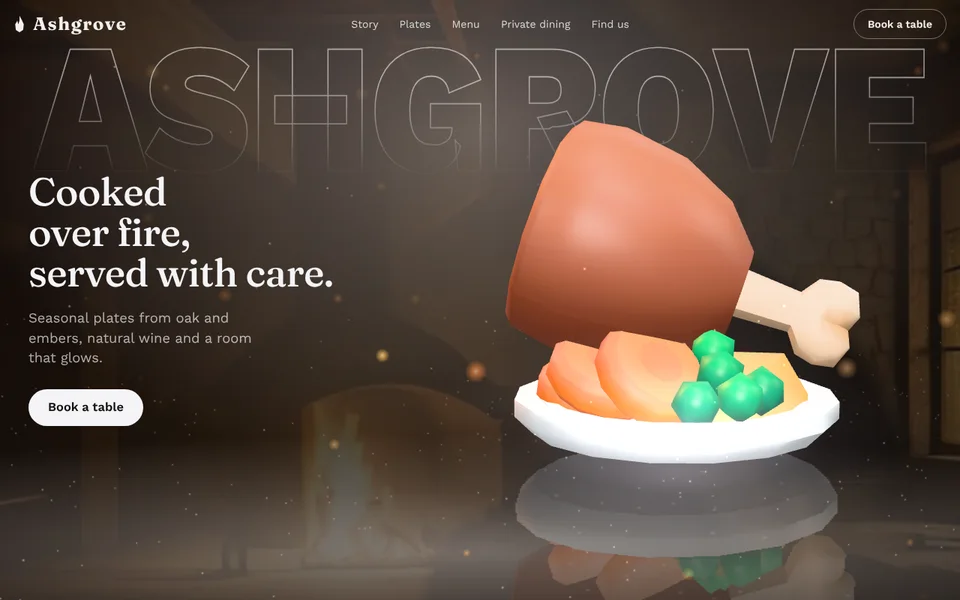
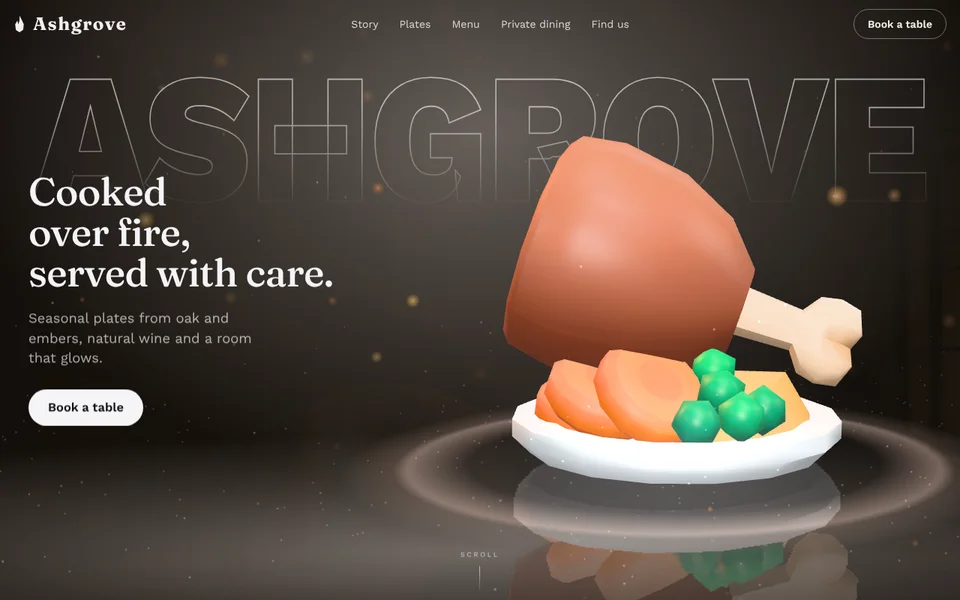
Openings play by themselves on load, and phones stand a tall figure above its words (#53)
The story's clock runs from below zero up to zero when the page opens, so every template's figure arrives in its own way (lift, drop, spin, zoom, reveal) instead of starting small or dim until the first scroll. Posters now show the arrived first screen. A tall figure on a phone stands above its words. On a wide screen the figure starts clear of the words.

Claude-Session: https://claude.ai/code/session_013S7wa2YwBzhjTGdkLAGHM9

diff --git a/library/character/plan.ts b/library/character/plan.ts
@@ -37,6 +37,8 @@ export const LOGICS = ["turntable", "orbit", "drift", "flip", "rise", "descend",
 export const LOOKS = ["studio", "embers", "snow", "bubbles", "petals", "fireflies", "confetti", "sparks", "stars", "leaves", "none"] as const;
 /** How the figure arrives in the opening scene. */
 export const OPENINGS = ["lift", "drop", "spin", "zoom", "reveal"] as const;
+/** How long each opening plays by itself when the page opens, in the story's own units (about 50 ms each; scenes.ts). */
+export const INTRO: Record<(typeof OPENINGS)[number], number> = { lift: 12, drop: 34, spin: 34, zoom: 30, reveal: 30 };
 /** How words and cards arrive. */
 export const MOTIONS = ["rise", "slide", "pop", "zoom", "drift"] as const;
 
@@ -313,6 +315,8 @@ export function buildPlan(plan_: FilmPlan, v: Variant, opening: boolean): Script
   const els: ElSpec[] = [];
   const scenes: SceneInfo[] = [];
   const plates: PlateSpec[] = [];
+  /** How long the opening plays by itself before the first scroll position (the hero sets it). */
+  let intro = 0;
   let prev: TrackKey = { ...BASE };
   const k = (t: number, slot: Slot | null, p: Partial<TrackKey> = {}) => {
     const next: TrackKey = { ...prev, t, ...(slot ? { cx: slot[0], cy: slot[1], w: slot[2], h: slot[3] } : {}), ...p };
@@ -338,7 +342,7 @@ export function buildPlan(plan_: FilmPlan, v: Variant, opening: boolean): Script
     });
   /** Where the figure begins the page and where it ends it: low and big beside the words, or above them. */
   const homeSlot = (center: boolean): Slot => {
-    if (!center) return N ? (F ? [0.5, 0.745, 0.96, 0.6] : [0.5, 0.7, 0.84, 0.46]) : F ? [0.526, 0.68, 0.74, 0.6] : [0.67, 0.55, 0.38, 0.76];
+    if (!center) return N ? (F ? [0.5, 0.745, 0.96, 0.6] : [0.5, 0.7, 0.84, 0.46]) : F ? [0.566, 0.68, 0.74, 0.6] : [0.71, 0.55, 0.38, 0.76];
     const base: Slot = N ? (F ? [0.5, 0.36, 0.92, 0.3] : [0.5, 0.38, 0.5, 0.36]) : F ? [0.5, 0.42, 0.64, 0.46] : [0.5, 0.42, 0.3, 0.54];
     // Its feet stay above the words that stand under it (they are measured: v.stack is their height).
     const over = base[1] + base[3] / 2 - (STACK_Y - (v.stack ?? 0.27) - 0.03);
@@ -412,48 +416,56 @@ export function buildPlan(plan_: FilmPlan, v: Variant, opening: boolean): Script
     switch (s.type) {
       // ------------------------------------------------ the opening
       case "hero": {
-        const center = s.comp === "center";
+        // A tall figure on a phone stands above its words (there is no room beside it): the same stack as a centred hero.
+        const center = s.comp === "center" || (N && !F);
         const l = look(plan_.logic, i, list.length, "side", F);
         const up = (x: number) => (F ? x : x * 0.35);
         // The figure low and big, then lifted into the light while the camera eases back.
         const hero: Slot = homeSlot(center);
         const yaw0 = F ? 0 : -22;
-        const settle = (dy: number, dw: number): Slot => [hero[0] + (center || N ? 0 : 0.04), hero[1] - dy, hero[2] - dw, hero[3]];
+        const settle = (dy: number, dw: number): Slot => [hero[0], hero[1] - dy, hero[2] - dw, hero[3]];
+        // The opening plays by itself when the page opens: the story's clock runs from -I to 0 (mountScenes),
+        // so the figure has arrived and every word is in place when a visitor first sees the page. Scrolling
+        // then lifts it into the light.
+        const I = (INTRO as Record<string, number>)[plan_.opening] ?? INTRO.lift;
+        intro = I;
         switch (plan_.opening) {
           case "drop":
             // Hangs in the air above the floor, then falls and lands: a ripple spreads from the impact.
-            k(a, [hero[0], hero[1] - (F ? 0.3 : 0.13), hero[2] * 0.92, hero[3] * 0.92], { yaw: yaw0 + 24, elev: 15, floor: 0.4, dust: 0.3, word: 1, glow: 0, pulse: 1, ring: 0, lift: F ? 0.6 : 0.3 });
-            k(a + 20, hero, { yaw: yaw0, elev: 7, floor: 1, dust: 0.5, lift: 0 });
-            k(a + 21, null, { pulse: 0 });
-            k(a + 34, settle(0.02, 0), { pulse: 0.45, glow: 0.4, dust: 0.7, lift: up(0.05) });
-            k(a + 50, settle(0.05, 0.005), { pulse: 1, glow: 1, dust: 0.9, word: 0.92, lift: up(0.16) });
+            k(-I, [hero[0], hero[1] - (F ? 0.3 : 0.13), hero[2] * 0.92, hero[3] * 0.92], { yaw: yaw0 + 24, elev: 15, floor: 0.4, dust: 0.3, word: 1, glow: 0, pulse: 1, ring: 0, lift: F ? 0.6 : 0.3 });
+            k(-14, hero, { yaw: yaw0, elev: 7, floor: 1, dust: 0.5, lift: 0 });
+            k(-13, null, { pulse: 0 });
+            k(0, settle(0.02, 0), { pulse: 0.45, glow: 0.4, dust: 0.7, lift: up(0.05) });
+            k(50, settle(0.05, 0.005), { pulse: 1, glow: 1, dust: 0.9, word: 0.92, lift: up(0.16) });
             break;
           case "spin":
             // Whirls into place from a full turn away, and settles as it lifts.
-            k(a, hero, { yaw: yaw0 - 330, elev: 9, floor: 1, dust: 0.5, word: 1, glow: 0, pulse: 1, ring: 0, lift: 0 });
-            k(a + 18, null, { yaw: yaw0 - 200 });
-            k(a + 34, settle(0.03, 0), { yaw: yaw0 - 70, glow: 0.6, dust: 0.7, lift: up(0.12) });
-            k(a + 50, settle(0.06, 0.01), { yaw: yaw0, elev: 7, glow: 1, dust: 0.9, word: 0.92, lift: up(0.24) });
+            k(-I, hero, { yaw: yaw0 - 330, elev: 9, floor: 1, dust: 0.5, word: 1, glow: 0, pulse: 1, ring: 0, lift: 0 });
+            k(-I * 0.5, null, { yaw: yaw0 - 170 });
+            k(0, settle(0.03, 0), { yaw: yaw0, elev: 7, glow: 0.6, dust: 0.7, lift: up(0.12) });
+            k(50, settle(0.06, 0.01), { glow: 1, dust: 0.9, word: 0.92, lift: up(0.24) });
             break;
           case "zoom":
             // Rushes in from far away, down out of a high view.
-            k(a, [hero[0], hero[1] - 0.05, hero[2] * 0.24, hero[3] * 0.24], { yaw: yaw0 + 50, elev: 22, floor: 0.6, dust: 1, word: 1, glow: 0.3, pulse: 1, ring: 0, lift: up(0.1) });
-            k(a + 26, hero, { yaw: yaw0 + 12, elev: 9, floor: 1, dust: 0.7, glow: 0.5 });
-            k(a + 50, settle(0.05, 0.005), { yaw: yaw0, elev: 7, glow: 1, dust: 0.9, word: 0.92, lift: up(0.2) });
+            k(-I, [hero[0], hero[1] - 0.05, hero[2] * 0.24, hero[3] * 0.24], { yaw: yaw0 + 50, elev: 22, floor: 0.6, dust: 1, word: 1, glow: 0.3, pulse: 1, ring: 0, lift: up(0.1) });
+            k(0, hero, { yaw: yaw0 + 6, elev: 9, floor: 1, dust: 0.7, glow: 0.5 });
+            k(50, settle(0.05, 0.005), { yaw: yaw0, elev: 7, glow: 1, dust: 0.9, word: 0.92, lift: up(0.2) });
             break;
           case "reveal":
             // Comes out of the dark: the light grows round it first.
-            k(a, hero, { yaw: yaw0, elev: 7, presence: 0.5, floor: 0.35, dust: 1, word: 0.2, glow: 0, pulse: 1, ring: 0, lift: up(0.1) });
-            k(a + 26, settle(0.02, 0), { presence: 1, floor: 0.75, glow: 0.4, word: 0.6 });
-            k(a + 50, settle(0.05, 0.005), { floor: 1, glow: 1, dust: 0.9, word: 0.92, lift: up(0.2) });
+            k(-I, hero, { yaw: yaw0, elev: 7, presence: 0.15, floor: 0.2, dust: 1, word: 0.2, glow: 0, pulse: 1, ring: 0, lift: up(0.1) });
+            k(0, settle(0.02, 0), { presence: 1, floor: 0.75, glow: 0.4, word: 0.6 });
+            k(50, settle(0.05, 0.005), { floor: 1, glow: 1, dust: 0.9, word: 0.92, lift: up(0.2) });
             break;
           default:
-            // Lifts off: a ring spreads from under it, light pools gather beneath, the dust wakes up.
-            k(a, hero, { yaw: yaw0, elev: 7, floor: 1, dust: 0.45, word: 1, glow: 0, pulse: 1, ring: 0 });
-            k(a + 14, null, { pulse: 0 });
-            k(a + 26, settle(0.04, 0), { pulse: 0.3, glow: 0.35, dust: 0.6, lift: up(0.12) });
-            k(a + 38, settle(0.05, 0.005), { pulse: 0.65, glow: 0.6, dust: 0.75, lift: up(0.22) });
-            k(a + 50, settle(0.065, 0.01), { pulse: 1, glow: 1, dust: 0.9, word: 0.92, lift: up(0.3) });
+            // Lifts off: it takes its place on the floor, then a ring spreads from under it, light pools gather
+            // beneath, the dust wakes up.
+            k(-I, hero, { yaw: yaw0, elev: 7, presence: 0.2, floor: 0.5, dust: 0.2, word: 0.5, glow: 0, pulse: 1, ring: 0 });
+            k(0, hero, { presence: 1, floor: 1, dust: 0.45, word: 1 });
+            k(14, null, { pulse: 0 });
+            k(26, settle(0.04, 0), { pulse: 0.3, glow: 0.35, dust: 0.6, lift: up(0.12) });
+            k(38, settle(0.05, 0.005), { pulse: 0.65, glow: 0.6, dust: 0.75, lift: up(0.22) });
+            k(50, settle(0.065, 0.01), { pulse: 1, glow: 1, dust: 0.9, word: 0.92, lift: up(0.3) });
         }
         // Once the words have gone, a centred figure grows to the middle of the screen (the next scene begins from there).
         const far: Slot = center ? (N ? [hero[0], hero[1] - 0.075, hero[2] * 0.97, hero[3]] : F ? [0.5, 0.5, 0.7, 0.54] : [0.5, 0.5, 0.34, 0.66]) : N ? (F ? [0.5, 0.5, 0.94, 0.6] : [0.5, 0.52, 0.8, 0.36]) : F ? [0.607, 0.505, 0.645, 0.6] : [0.7, 0.52, 0.36, 0.72];
@@ -461,15 +473,15 @@ export function buildPlan(plan_: FilmPlan, v: Variant, opening: boolean): Script
         k(a + 125, null, { word: 0 });
         k(a + 150, far, { elev: 11, yaw: l.yaw * 0.3, word: 0 });
         if (center) {
-          stack(`${s.id}-stack`, s, [NOW, NOW, a + 6, a + 43]);
+          stack(`${s.id}-stack`, s, [-I * 0.6, -I * 0.1, a + 6, a + 43]);
         } else {
           const x = N ? 0.07 : 0.03;
           const ty = N ? 0.3 : 0.285;
-          el({ id: `${s.id}-title`, kind: "title", html: lines(s.title), x, y: ty, fade: [NOW, NOW, a + 6, a + 43] });
-          if (s.text) el({ id: `${s.id}-text`, kind: "text", html: esc(s.text), x, y: 0, after: `${s.id}-title`, gap: 1.8, w: 30, fade: [NOW, NOW, a + 5, a + 38] });
-          if (s.cta) el({ id: `${s.id}-cta`, kind: "cta", html: `<a class="xp-btn" href="${esc(s.ctaHref)}">${esc(s.cta)}</a>`, x, y: 0, after: s.text ? `${s.id}-text` : `${s.id}-title`, gap: 2.4, fade: [NOW, NOW, a + 2, a + 35] });
+          el({ id: `${s.id}-title`, kind: "title", html: lines(s.title), x, y: ty, fade: [-I * 0.7, -I * 0.25, a + 6, a + 43] });
+          if (s.text) el({ id: `${s.id}-text`, kind: "text", html: esc(s.text), x, y: 0, after: `${s.id}-title`, gap: 1.8, w: 30, fade: [-I * 0.55, -I * 0.1, a + 5, a + 38] });
+          if (s.cta) el({ id: `${s.id}-cta`, kind: "cta", html: `<a class="xp-btn" href="${esc(s.ctaHref)}">${esc(s.cta)}</a>`, x, y: 0, after: s.text ? `${s.id}-text` : `${s.id}-title`, gap: 2.4, fade: [-I * 0.4, 0, a + 2, a + 35] });
         }
-        el({ id: `${s.id}-cue`, kind: "cue", html: `<span>Scroll</span><i></i>`, x: 0.5, y: 0.915, ax: 0.5, fade: [NOW, NOW, a + 0, a + 14] });
+        el({ id: `${s.id}-cue`, kind: "cue", html: `<span>Scroll</span><i></i>`, x: 0.5, y: 0.915, ax: 0.5, fade: [-I * 0.3, 0, a + 3, a + 16] });
         break;
       }
 
@@ -735,7 +747,7 @@ export function buildPlan(plan_: FilmPlan, v: Variant, opening: boolean): Script
   // On a phone a headline stays inside the screen (it wraps instead of running past the edge).
   if (N) for (const e of els) if (e.kind.startsWith("title") && !e.w) e.w = 31;
   if (!keys.length) k(0, [0.5, 0.5, 0.5, 0.5], {});
-  return { len: Math.max(at, 1), keys, els, scenes, plates };
+  return { len: Math.max(at, 1), keys, els, scenes, plates, intro };
 }
 
 void clamp;

diff --git a/library/character/scenes.ts b/library/character/scenes.ts
@@ -510,6 +510,21 @@ export function mountScenes(doc: Document, data: Data, o: ScenesOptions): Scenes
   let alive = true;
   const reduced = () => !!win.matchMedia?.("(prefers-reduced-motion: reduce)").matches;
 
+  // The opening plays by itself when the page opens at the top (script.intro, plan.ts): the story's clock
+  // starts below 0 and runs up to it while the figure arrives and the words come in, and the page then
+  // rests at 0 until the first scroll. A visitor who asked for calm, a page opened part-way down and the
+  // checks in a browser (window.__XP_FILM_SNAP__) all start at 0.
+  const flags = win as unknown as { __XP_FILM_SNAP__?: boolean; __XP_INTRO_T__?: number };
+  /** Where the clock stands before the page's own scroll: below 0 while the opening plays. A check in a browser can set it to look at any moment. */
+  let introT = 0;
+  let introDone = false;
+  let introRaf = 0;
+  let introTimer = 0;
+  const shift = () => (typeof flags.__XP_INTRO_T__ === "number" ? flags.__XP_INTRO_T__ : introT);
+  const mayPlay = () => !!script.intro && !reduced() && !flags.__XP_FILM_SNAP__ && typeof flags.__XP_INTRO_T__ !== "number" && win.scrollY < win.innerHeight * 0.12;
+  if (mayPlay()) introT = -(script.intro || 0);
+  else introDone = true;
+
   // The track's colours come from the character's own gradient: its base, glow and second colour.
   let stageBase = "#0d0d10";
   const paintTheme = () => {
@@ -638,7 +653,8 @@ export function mountScenes(doc: Document, data: Data, o: ScenesOptions): Scenes
       sample = sampler(script.keys);
     }
     if (spot) {
-      const s = script.keys[0];
+      // Where the figure stands once the opening has played (the picture shows there until it is drawn).
+      const s = sample(0);
       spot.style.left = `${(s.cx - s.w / 2) * 100}%`;
       spot.style.top = `${(s.cy - s.h / 2) * 100}%`;
       spot.style.width = `${s.w * 100}%`;
@@ -649,21 +665,23 @@ export function mountScenes(doc: Document, data: Data, o: ScenesOptions): Scenes
     draw();
   };
 
-  const trackFor = (): Track => ({ el: track, len: script.len, sample: (t) => sample(t), opening: o.opening });
+  const trackFor = (): Track => ({ el: track, len: script.len, sample: (t) => sample(t), opening: o.opening, shift });
 
   /** Every element at the page's place in the story. */
   const draw = () => {
     raf = 0;
     if (!alive) return;
     const r = track.getBoundingClientRect();
-    const t = -r.top / (H / 100);
+    const at = -r.top / (H / 100);
+    // The opening's run-up lies before the page's first scroll position.
+    const t = at + shift();
     if (t === lastT) return;
     lastT = t;
     const calm = reduced();
-    const far = t < -120 || t > script.len + 160;
+    const far = at < -120 || at > script.len + 160;
     air.active(!far);
     if (!far) {
-      const k = sample(clamp(t, 0, script.len));
+      const k = sample(clamp(t, -(script.intro || 0), script.len));
       bgSpot.style.opacity = (0.35 + 0.65 * (1 - k.halo * 0.6)).toFixed(2);
       bgFloor.style.opacity = clamp(k.floor).toFixed(2);
     }
@@ -706,7 +724,47 @@ export function mountScenes(doc: Document, data: Data, o: ScenesOptions): Scenes
   const schedule = () => {
     if (!raf && alive) raf = win.requestAnimationFrame(draw);
   };
-  const onScroll = () => schedule();
+  /** Ends the opening's run at once (the page was scrolled well away, or is being taken down). */
+  const finishIntro = () => {
+    introDone = true;
+    introT = 0;
+    if (introRaf) win.cancelAnimationFrame(introRaf), (introRaf = 0);
+    if (introTimer) win.clearTimeout(introTimer), (introTimer = 0);
+    lastT = NaN;
+    schedule();
+  };
+  /** Plays the opening: it waits a moment for the model to be on screen, then runs up to 0 and slows as it lands. */
+  const startIntro = () => {
+    if (introDone || introRaf || !alive) return;
+    if (!mayPlay()) return finishIntro();
+    const began = performance.now();
+    let prev = 0;
+    let ran = 0;
+    const tick = (now: number) => {
+      introRaf = 0;
+      if (!alive || introDone) return;
+      if (!prev) {
+        if (!doc.documentElement.classList.contains("xp-film-live") && now - began < 700) return void (introRaf = win.requestAnimationFrame(tick));
+        prev = now;
+      }
+      // Time runs a frame at a time, never more than 50 ms of it: the first frames of a model (its shaders
+      // compile) or a tab that was in the background do not skip the opening.
+      ran += Math.min(now - prev, 50);
+      prev = now;
+      const len = script.intro || 0;
+      const k = len ? clamp(ran / (len * 48)) : 1;
+      introT = k >= 1 ? 0 : -len * (1 - k) ** 3;
+      lastT = NaN;
+      draw();
+      if (k < 1) introRaf = win.requestAnimationFrame(tick);
+      else introDone = true;
+    };
+    introRaf = win.requestAnimationFrame(tick);
+  };
+  const onScroll = () => {
+    if (!introDone && win.scrollY > H * 0.5) finishIntro();
+    else schedule();
+  };
   const onResize = () => {
     if (win.innerWidth === W && Math.abs(win.innerHeight - H) < 64) return schedule();
     place();
@@ -732,6 +790,8 @@ export function mountScenes(doc: Document, data: Data, o: ScenesOptions): Scenes
 
   paintTheme();
   place();
+  // The film asks for the opening when it takes over the page; if it never does, the opening plays anyway.
+  if (!introDone) introTimer = win.setTimeout(() => ((introTimer = 0), startIntro()), 1500);
   void doc.fonts?.ready?.then(() => alive && place());
   // A face the page asks for after the first layout (a web font) changes how many lines a title takes:
   // lay the words out again whenever one arrives, so what sits below a title still starts where it ends.
@@ -747,6 +807,7 @@ export function mountScenes(doc: Document, data: Data, o: ScenesOptions): Scenes
       film = f;
       f.setTrack(trackFor());
       schedule();
+      startIntro();
     },
     detach() {
       film = null;
@@ -774,6 +835,8 @@ export function mountScenes(doc: Document, data: Data, o: ScenesOptions): Scenes
     dispose() {
       alive = false;
       if (raf) win.cancelAnimationFrame(raf);
+      if (introRaf) win.cancelAnimationFrame(introRaf);
+      if (introTimer) win.clearTimeout(introTimer);
       win.removeEventListener("scroll", onScroll);
       win.removeEventListener("resize", onResize);
       doc.removeEventListener("click", onClick);

diff --git a/tests/plan.test.ts b/tests/plan.test.ts
@@ -1,5 +1,5 @@
 import { describe, expect, it } from "vitest";
-import { CAPS, COMPS, LOGICS, LOOKS, MOTIONS, OPENINGS, SCENE_TYPES, buildPlan, filmPlan, typeOf } from "@/library/character/plan";
+import { CAPS, COMPS, INTRO, LOGICS, LOOKS, MOTIONS, OPENINGS, SCENE_TYPES, buildPlan, filmPlan, typeOf } from "@/library/character/plan";
 import { NOW } from "@/library/character/scene-kit";
 import { SCENE_CAPS, SCENE_COMPS, SCENE_LOGICS, SCENE_LOOKS, SCENE_MOTIONS, SCENE_OPENINGS, SCENE_TYPES as SCHEMA_TYPES, hasPlan, normalizeFilm, schemaProblems } from "@/lib/template-schema.mjs";
 import { TEMPLATES, templateById } from "@/lib/templates";
@@ -123,7 +123,7 @@ describe.each(planned.map((t) => [t.id, t] as const))("the story of %s", (_id, t
         expect(f[0], `${where} ${e.id}`).toBeLessThanOrEqual(f[1]);
         expect(f[1], `${where} ${e.id}`).toBeLessThanOrEqual(f[2]);
         expect(f[2], `${where} ${e.id}`).toBeLessThanOrEqual(f[3]);
-        if (f[0] > NOW) expect(f[0], `${where} ${e.id}`).toBeGreaterThanOrEqual(-10);
+        if (f[0] > NOW) expect(f[0], `${where} ${e.id}`).toBeGreaterThanOrEqual(-(s.intro ?? 0) - 10);
       }
       // The scenes lie end to end and the track is as long as they are.
       let at = 0;
@@ -132,6 +132,29 @@ describe.each(planned.map((t) => [t.id, t] as const))("the story of %s", (_id, t
         at += sc.len;
       }
       expect(s.len, where).toBeGreaterThanOrEqual(at - 1);
+    }
+  });
+
+  it("plays its opening by itself: the clock starts before 0, the figure has arrived and the hero's words are in at 0", () => {
+    const plan = filmPlan(t.content, String(t.content.brand?.name || t.name))!;
+    for (const v of SHAPES) {
+      const s = buildPlan(plan, v, true);
+      const where = `${t.id} ${v.narrow ? "phone" : "wide"} ${v.flat ? "flat" : "tall"}`;
+      expect(s.intro, where).toBe(INTRO[film.opening as keyof typeof INTRO]);
+      expect(s.keys[0].t, where).toBe(-s.intro!);
+      expect(
+        s.keys.some((k) => k.t === 0),
+        where,
+      ).toBe(true);
+      // Every word of the hero is fully in by 0, and stays until the scroll takes it away.
+      const words = s.els.filter((e) => e.id.startsWith("hero-") && !e.id.endsWith("-cue"));
+      expect(words.length, where).toBeGreaterThan(0);
+      for (const e of words) {
+        expect(e.fade[1], `${where} ${e.id}`).toBeLessThanOrEqual(0);
+        expect(e.fade[2], `${where} ${e.id}`).toBeGreaterThanOrEqual(0);
+      }
+      // A track that does not open the page has no opening to play.
+      expect(buildPlan(plan, v, false).intro ?? 0, where).toBe(0);
     }
   });
 

diff --git a/library/character/film.ts b/library/character/film.ts
@@ -99,6 +99,8 @@ export interface Track {
   sample(t: number): TrackKey;
   /** True when the track opens the page: it brings its own opening shot and outlined word. */
   opening: boolean;
+  /** Added to the camera's moment while the opening plays by itself (below 0), before the page's own scroll. */
+  shift?: () => number;
 }
 
 interface Box {
@@ -591,7 +593,7 @@ export function createFilm(doc: Document, hero: HTMLElement, init: FilmOptions =
     if (track && A.key && B.key && A !== B && y >= A.at) {
       scripted = true;
       trackT = clamp((y - A.at) / (H / 100), 0, track.len);
-      return keyVals(track.sample(trackT));
+      return keyVals(track.sample(trackT + (track.shift ? track.shift() : 0)));
     }
     const p = A === B ? 0 : clamp((y - A.at) / Math.max(1, B.at - A.at));
     // Hold each shot a while, then move.

diff --git a/library/character/scene-kit.ts b/library/character/scene-kit.ts
@@ -81,6 +81,12 @@ export interface Script {
   els: ElSpec[];
   scenes: SceneInfo[];
   plates?: PlateSpec[];
+  /**
+   * How long the opening plays by itself when the page opens, in the story's own units: the story's
+   * clock starts at -intro and runs up to 0, where the page rests until the first scroll. Its keys and
+   * the words' first fades lie in that run. 0 or absent: the page opens already at 0.
+   */
+  intro?: number;
 }
 
 export type Slot = [number, number, number, number];

diff --git a/docs/FILM-TEMPLATES.md b/docs/FILM-TEMPLATES.md
@@ -47,7 +47,7 @@ Icons: any name in `ICON_NAMES` (`library/character/scene-kit.ts`); an unknown n
 
 - **Logic** (how the camera moves scene to scene): `turntable` (a steady turn), `orbit` (a wide circuit), `drift` (a slow sway), `flip` (the view flips side to side), `rise` (the figure climbs scene by scene), `descend` (it sinks), `still` (it holds still and the light moves).
 - **Look** (what fills the air): `studio`, `embers`, `snow`, `bubbles`, `petals`, `fireflies`, `confetti`, `sparks`, `stars`, `leaves`, `none`.
-- **Opening** (how the figure arrives): `lift`, `drop` (falls and lands with a ripple), `spin`, `zoom` (rushes in from far), `reveal` (out of the dark).
+- **Opening** (how the figure arrives): `lift` (takes its place, then a ring spreads from under it), `drop` (falls and lands with a ripple), `spin`, `zoom` (rushes in from far), `reveal` (out of the dark). The opening plays by itself when the page opens at the top, in about a second and a half (`INTRO` in `plan.ts`: the story's clock runs from below 0 up to 0, and the words come in as the figure arrives); the page then rests in the hero pose until the first scroll lifts the figure into the light. It does not play for a visitor who asked for calm, or for a page opened part-way down.
 - **Motion** (how words and cards arrive): `rise`, `slide`, `pop`, `zoom`, `drift`.
 
 `library/character/plan.ts` and `lib/template-schema.mjs` hold the same lists; `tests/plan.test.ts` fails if they drift.
@@ -78,7 +78,7 @@ The shell draws the menu, the story (`xp-lib/xp-character.js` reads `content.fil
 
 ### Checking a template frame by frame
 
-Software WebGL is enough: open `public/tpl/<id>/site/preview.html#xp=<encoded content>` in Chromium with `--use-angle=swiftshader`, scroll to each scene's middle (`window.__XP_SCENES__()` lists `{id, at, len}` in units of the viewport's height; scroll to `at + len / 2`), and look at the frame. Do it on three shapes: a wide screen (1440 × 900), the opposite model shape (a wide flat figure such as a hypercar against a tall one), and a phone (390 × 844). Look for: words on top of the figure or of each other, anything past the screen's edge, a button below the fold, a scene whose figure is hidden by cards.
+Software WebGL is enough: open `public/tpl/<id>/site/preview.html#xp=<encoded content>` in Chromium with `--use-angle=swiftshader`, scroll to each scene's middle (`window.__XP_SCENES__()` lists `{id, at, len}` in units of the viewport's height; scroll to `at + len / 2`), and look at the frame. To see a moment of the opening, set `window.__XP_INTRO_T__` to a number from `-INTRO[opening]` to 0 (before the page starts, with an init script, so the opening does not play by itself) and send a `scroll` event. Do it on three shapes: a wide screen (1440 × 900), the opposite model shape (a wide flat figure such as a hypercar against a tall one), and a phone (390 × 844). Look for: words on top of the figure or of each other, anything past the screen's edge, a button below the fold, a scene whose figure is hidden by cards.
 
 ## In the journey
 
@@ -114,8 +114,8 @@ A person in the journey ([CHARACTER-JOURNEY.md](CHARACTER-JOURNEY.md)) may put a
 
 | Piece | File |
 | --- | --- |
-| The plan: parsing, caps, the figure's path and every element | `library/character/plan.ts` |
-| The room: layout, the scene styles, elements and plates | `library/character/scenes.ts` |
+| The plan: parsing, caps, the figure's path, every element and the opening's run-up (`INTRO`) | `library/character/plan.ts` |
+| The room: layout, the scene styles, elements and plates, and the clock that plays the opening | `library/character/scenes.ts` |
 | Icons, shared helpers, the camera's keys | `library/character/scene-kit.ts` |
 | The air (look) | `library/character/air.ts` |
 | The shell | `templates/_kit/film-shell.{js,css}` |
